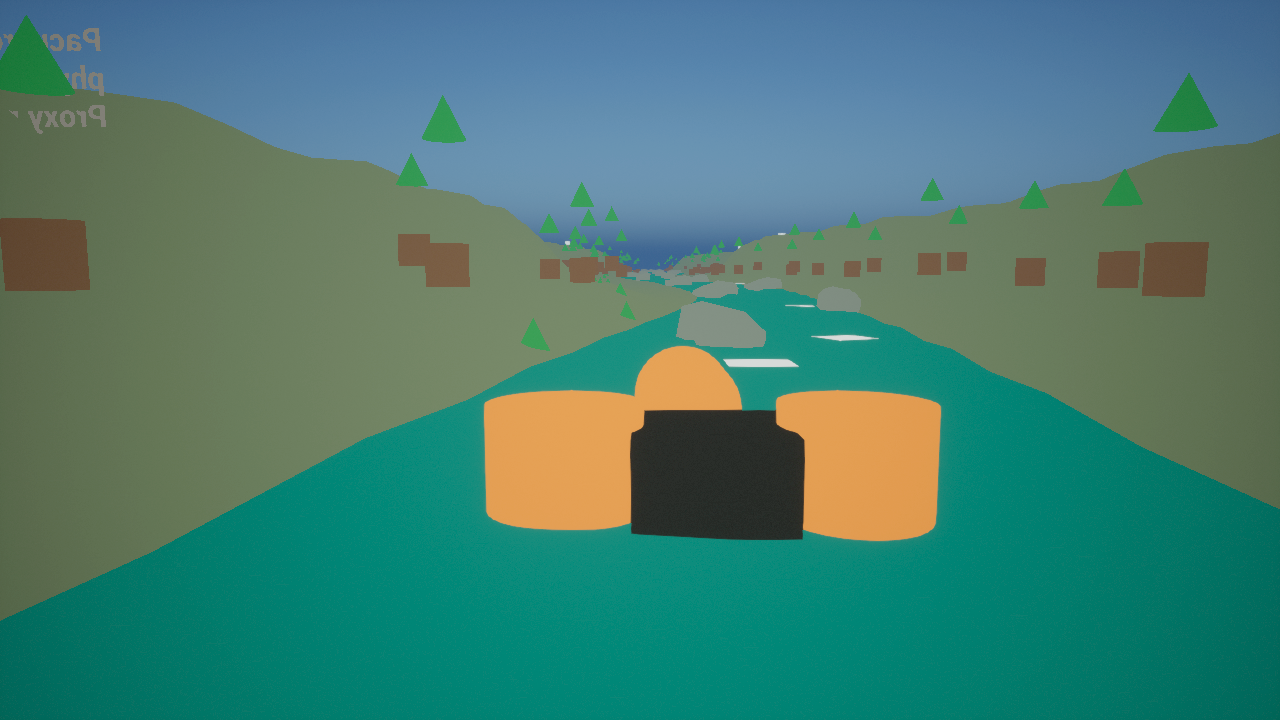
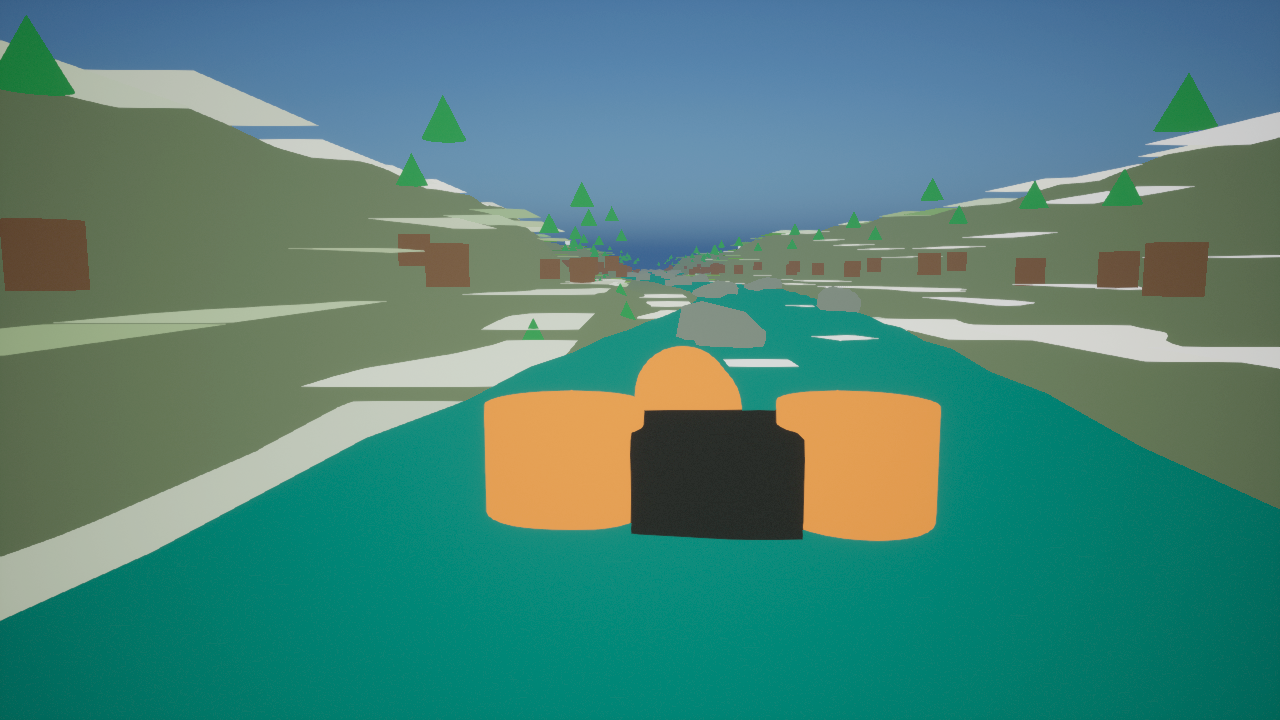
Add Pacuare source-derived preview slice

diff --git a/unreal/Plugins/RaftSim/Source/RaftSimEditor/Private/RaftSimEditorModule.cpp b/unreal/Plugins/RaftSim/Source/RaftSimEditor/Private/RaftSimEditorModule.cpp
@@ -11,7 +11,6 @@
 #include "Components/SkyLightComponent.h"
 #include "Components/StaticMeshComponent.h"
 #include "Components/SkyAtmosphereComponent.h"
-#include "Components/TextRenderComponent.h"
 #include "Editor.h"
 #include "Engine/DirectionalLight.h"
 #include "Engine/ExponentialHeightFog.h"
@@ -20,7 +19,6 @@
 #include "Engine/SkyLight.h"
 #include "Engine/StaticMesh.h"
 #include "Engine/StaticMeshActor.h"
-#include "Engine/TextRenderActor.h"
 #include "Engine/TextureRenderTarget2D.h"
 #include "EngineUtils.h"
 #include "FileHelpers.h"
@@ -236,6 +234,12 @@ TArray<FRaftSimEnvironmentPreviewSpec> GetEnvironmentPreviewSpecs()
     Pacuare.DisplayName = TEXT("Pacuare River Rainforest");
     Pacuare.MapPackagePath = TEXT("/Game/RaftSim/Maps/EnvironmentPreviews/L_PacuareRainforest_PhotorealPreview");
     Pacuare.SourceManifest = TEXT("physics/data/real_world/pacuare_river_costa_rica/source_manifest.json");
+    Pacuare.AerialDrapeImage =
+        TEXT("physics/data/real_world/pacuare_river_costa_rica/imagery/nasa_gibs_pacuare_truecolor_2025-04-02_512.png");
+    Pacuare.ElevationSample =
+        TEXT("physics/data/real_world/pacuare_river_costa_rica/terrain/copernicus_dem_glo30_N09_W084.tif; physics/data/real_world/pacuare_river_costa_rica/terrain/copernicus_dem_glo30_N10_W084.tif");
+    Pacuare.SourceDrapeDescription =
+        TEXT("official NASA GIBS MODIS/Terra true-color 512px sample, selected from five cloud-screened dates, sampled into visible rainforest terrain overlay tiles; Copernicus DEM GLO-30 public COG tiles recorded for follow-on Pacuare gorge heightfield conditioning; rocks, foliage, water, waterfalls, foam, raft, and lighting remain proxy layers");
     Pacuare.WaterColor = FLinearColor(0.03f, 0.24f, 0.19f);
     Pacuare.TerrainColor = FLinearColor(0.17f, 0.22f, 0.13f);
     Pacuare.RockColor = FLinearColor(0.20f, 0.24f, 0.20f);
@@ -873,7 +877,7 @@ void AddPreviewLightRig(UWorld* World, const FRaftSimEnvironmentPreviewSpec& Spe
     }
 }
 
-void AddPreviewCameraAndLabels(UWorld* World, const FRaftSimEnvironmentPreviewSpec& Spec)
+void AddPreviewCameraAndStart(UWorld* World, const FRaftSimEnvironmentPreviewSpec& Spec)
 {
     if (!World || !GEditor)
     {
@@ -900,26 +904,6 @@ void AddPreviewCameraAndLabels(UWorld* World, const FRaftSimEnvironmentPreviewSp
         PlayerStart->SetActorLabel(TEXT("RaftSim_GuideSeat_PlayerStart"));
     }
 
-    ATextRenderActor* Label = Cast<ATextRenderActor>(
-        GEditor->AddActor(World->GetCurrentLevel(), ATextRenderActor::StaticClass(), FTransform(FRotator(0.0f, 0.0f, 0.0f), FVector(-3600.0f, -1350.0f, 420.0f))));
-    if (Label && Label->GetTextRender())
-    {
-        Label->SetActorLabel(TEXT("RaftSim_SourceManifest_Label"));
-        const FString SourceLayerNote = Spec.SourceDrapeDescription.IsEmpty()
-            ? FString(TEXT("Proxy preview: replace with reviewed DEM, imagery, and assets."))
-            : FString::Printf(
-                  TEXT("Source preview layer: %s\nAerial: %s\nDEM sample: %s"),
-                  *Spec.SourceDrapeDescription,
-                  *Spec.AerialDrapeImage,
-                  *Spec.ElevationSample);
-        Label->GetTextRender()->SetText(FText::FromString(FString::Printf(
-            TEXT("%s\n%s\n%s"),
-            *Spec.DisplayName,
-            *Spec.SourceManifest,
-            *SourceLayerNote)));
-        Label->GetTextRender()->SetHorizontalAlignment(EHTA_Left);
-        Label->GetTextRender()->SetWorldSize(72.0f);
-    }
 }
 
 bool SavePreviewWorld(UWorld* World, const FString& PackagePath, FString& OutSummary)
@@ -1176,7 +1160,7 @@ bool BuildPreviewMapForSpec(const FRaftSimEnvironmentPreviewSpec& Spec, FString&
         }
     }
 
-    AddPreviewCameraAndLabels(World, Spec);
+    AddPreviewCameraAndStart(World, Spec);
     return SavePreviewWorld(World, Spec.MapPackagePath, OutSummary);
 }
 
@@ -2187,7 +2171,7 @@ bool FRaftSimEditorModule::CapturePhotorealEnvironmentPreviews(FString& OutSumma
         TEXT("%s\n")
         TEXT("  ]\n")
         TEXT("}\n"),
-        bAllCaptured ? TEXT("south_fork_and_colorado_source_draped_previews_and_pacuare_procedural_blockout_available; photoreal source_data_and_asset_replacement_required") : TEXT("one_or_more_captures_failed"),
+        bAllCaptured ? TEXT("south_fork_colorado_and_pacuare_source_draped_previews_available; photoreal source_data_and_asset_replacement_required") : TEXT("one_or_more_captures_failed"),
         *EntriesJson);
 
     const FString ManifestPath = FPaths::Combine(CaptureRoot, TEXT("environment_capture_manifest.json"));

diff --git a/docs/photoreal-river-environment-production-plan.md b/docs/photoreal-river-environment-production-plan.md
@@ -61,6 +61,13 @@ Treat this as a rain-fed tropical gorge environment until authoritative hydrolog
 - Aerial imagery: Copernicus Sentinel and Landsat for vegetation, river color, and cloud-aware seasonal review.
 - Review media: first-party field captures or explicit outfitter/guide permissions; public social links remain reference-only.
 
+Initial source slice:
+
+- `physics/data/real_world/pacuare_river_costa_rica/production_source_pull_manifest.json` records the first Pacuare source pull.
+- Copernicus DEM GLO-30 public COG tiles `N09_00_W084_00` and `N10_00_W084_00` now cover the draft WGS84 bounds. They are source terrain artifacts only; clipping, reprojection, hydrologic conditioning, and Unreal heightfield import remain open.
+- NASA GIBS MODIS/Terra true-color samples were pulled for five dates. The April 2, 2025 sample has the best visible rainforest texture and is used as the coarse Unreal preview drape; the other dates are retained as cloud-screening evidence.
+- OpenTopography SRTMGL1 was probed and returned an API-key requirement, so that path remains available only after key and terms review.
+
 ## Unreal Construction Plan
 
 1. Create source-controlled preview recipes for all three rivers from the manifest.
@@ -86,8 +93,9 @@ Treat this as a rain-fed tropical gorge environment until authoritative hydrolog
 - The first South Fork official source slice now exists at `physics/data/real_world/south_fork_american_chili_bar/production_source_pull_manifest.json`: historical USGS `11445500` daily discharge, TNM NHD product metadata, TNM DEM/NAIP zero-hit diagnostics, a small USGS 3DEP GeoTIFF sample, and a small USDA/APFO NAIP aerial sample.
 - The South Fork preview now uses the USDA/APFO NAIP sample as a source-derived visible terrain overlay in Unreal. This proves the imagery-to-editor path, but it is a small smoke-test raster rather than a complete orthomosaic or terrain material pass.
 - The first Colorado/Lees Ferry official source slice now exists at `physics/data/real_world/colorado_river_grand_canyon_rowing/production_source_pull_manifest.json`: USGS `09380000` and `09402500` daily discharge histories through July 4, 2026, a small USGS 3DEP GeoTIFF sample, and a small USDA/APFO NAIP aerial sample. The Colorado preview uses that NAIP sample as a source-derived visible canyon terrain overlay.
+- The first Pacuare public/global source slice now exists at `physics/data/real_world/pacuare_river_costa_rica/production_source_pull_manifest.json`: Copernicus DEM GLO-30 public COG tiles for the draft bounds, a NASA GIBS MODIS/Terra April 2, 2025 true-color preview sample selected from five cloud-screened dates, and an OpenTopography API-key gate probe. The Pacuare preview uses the NASA sample as a source-derived visible rainforest terrain overlay.
 - The existing default map path `/Game/RaftSim/Maps/L_RaftSimBoot` has no committed level asset yet.
-- Colorado and Pacuare still need real geospatial pulls, hydrology review, guide review, and rights-cleared field/reference media.
+- Colorado and Pacuare still need full-corridor geospatial processing, hydrology review, guide review, and rights-cleared field/reference media.
 - South Fork has the only solver corridor package, but its terrain, imagery, and field media are still representative placeholders rather than production pulls.
 - Production photoreal review is blocked on reviewed DEM/aerial imports plus rights-cleared or first-party river environment assets for terrain materials, wet rocks, foliage, water surface detail, foam, mist, spray, and lighting.
 
@@ -99,4 +107,5 @@ Treat this as a rain-fed tropical gorge environment until authoritative hydrolog
 - Colorado River: `/Game/RaftSim/Maps/EnvironmentPreviews/L_ColoradoGrandCanyon_PhotorealPreview`, capture `docs/environment-captures/photoreal_river_previews/colorado_river_guide_seat_downstream.png`.
 - Colorado source data: `physics/data/real_world/colorado_river_grand_canyon_rowing/production_source_pull_manifest.json` records the initial official pull; `imagery/usda_naip_lees_ferry_sample_512.png` is sampled into visible canyon terrain overlay tiles, and `terrain/usgs_3dep_lees_ferry_sample_256.tif` is recorded for the next canyon heightfield-conditioning pass.
 - Pacuare River: `/Game/RaftSim/Maps/EnvironmentPreviews/L_PacuareRainforest_PhotorealPreview`, capture `docs/environment-captures/photoreal_river_previews/pacuare_guide_seat_downstream.png`.
+- Pacuare source data: `physics/data/real_world/pacuare_river_costa_rica/production_source_pull_manifest.json` records the initial public/global pull; `imagery/nasa_gibs_pacuare_truecolor_2025-04-02_512.png` is sampled into visible rainforest terrain overlay tiles, and `terrain/copernicus_dem_glo30_N09_W084.tif` plus `terrain/copernicus_dem_glo30_N10_W084.tif` are recorded for the next gorge heightfield-conditioning pass.
 - These captures verify editor automation, camera placement, generated valley terrain meshes, curved river ribbons, foam/hydraulic cue strips, boulder bars, foliage proxies, and per-river light/fog variants. They must be replaced by source-derived or rights-cleared photoreal passes before the goal is complete.

diff --git a/TODO.md b/TODO.md
@@ -931,6 +931,7 @@ This milestone turns the three runnable river targets into complete, reviewable,
 - [x] Attach the first official South Fork production source slice: historical USGS 11445500 daily discharge, TNM NHD product metadata, TNM DEM/NAIP zero-hit diagnostics, a small USGS 3DEP GeoTIFF sample, and a small USDA/APFO NAIP aerial sample are recorded in `physics/data/real_world/south_fork_american_chili_bar/production_source_pull_manifest.json`.
 - [x] Drape the official South Fork USDA/APFO NAIP aerial sample into the generated Unreal terrain preview as a source-derived visible overlay layer, and record the paired USGS 3DEP sample in the capture/source manifests for follow-on heightfield conditioning. This improves provenance and visual grounding but is still not a production photoreal river environment.
 - [x] Attach the first official Colorado/Lees Ferry production source slice: USGS 09380000 and 09402500 daily discharge histories, a small USGS 3DEP GeoTIFF sample, and a small USDA/APFO NAIP aerial sample are recorded in `physics/data/real_world/colorado_river_grand_canyon_rowing/production_source_pull_manifest.json` and wired into the Unreal preview overlay path.
+- [x] Attach the first Pacuare production source slice: Copernicus DEM GLO-30 public tiles for the draft bounds, a NASA GIBS MODIS/Terra true-color cloud-screened preview sample, retained cloudy candidate samples, and an OpenTopography API-key gate probe are recorded in `physics/data/real_world/pacuare_river_costa_rica/production_source_pull_manifest.json` and wired into the Unreal preview overlay path.
 - [ ] Pull or attach reviewed production geospatial source data: DEM/lidar, hydrography, aerial/satellite imagery, water/vegetation masks, flow/gauge/rainfall history, protected-area/access context, and guide/media annotation references.
 - [ ] Replace proxy terrain, banks, rocks, foliage, water materials, foam/spray/mist, wetness, and lighting with source-derived or rights-cleared assets until screenshots read as lifelike without hiding hazards or rescue targets.
 - [ ] Add or license production-quality river environment asset packs/materials, or generate approved first-party procedural equivalents, for canyon walls, riverbeds, wet boulders, shore vegetation, tropical canopy, foam/spray/mist, raft foreground, and river-specific atmospheric lighting.

diff --git a/docs/unreal-photoreal-open-world-stack.md b/docs/unreal-photoreal-open-world-stack.md
@@ -25,6 +25,6 @@ The first vertical-slice environment recipe is `unreal/Content/RaftSim/Rendering
 
 The three-river environment source and capture plan is `unreal/Content/RaftSim/Rendering/photoreal_river_environment_sources.json`. It records the source stack for South Fork American, Colorado River, and Pacuare: maps, terrain, hydrography, flow evidence, aerial/satellite imagery, link-only social/reference media policy, procedural generation layers, target Unreal map packages, and required guide-seat downstream captures.
 
-The first generated preview maps are now available under `/Game/RaftSim/Maps/EnvironmentPreviews/`, and rendered procedural blockout captures are written to `docs/environment-captures/photoreal_river_previews/` by the `RaftSim.CreatePhotorealEnvironmentPreviewMaps` and `RaftSim.CapturePhotorealEnvironmentPreviews` editor automation. These are source-aware development previews with generated valley terrain, curved river ribbons, foam/hydraulic cue strips, boulder bars, foliage proxies, and per-river light/fog variants; final photoreal approval still requires reviewed DEM/aerial inputs and rights-cleared or first-party assets.
+The first generated preview maps are now available under `/Game/RaftSim/Maps/EnvironmentPreviews/`, and rendered guide-seat captures are written to `docs/environment-captures/photoreal_river_previews/` by the `RaftSim.CreatePhotorealEnvironmentPreviewMaps` and `RaftSim.CapturePhotorealEnvironmentPreviews` editor automation. South Fork, Colorado, and Pacuare now have source-draped preview overlays, with generated valley terrain, curved river ribbons, foam/hydraulic cue strips, boulder bars, foliage proxies, and per-river light/fog variants; final photoreal approval still requires full reviewed DEM/aerial imports and rights-cleared or first-party assets.
 
 The recipe requires guide-seat review captures, desktop/VR/debug quality budgets, source and rights manifests, and replay alignment between rendered water features and solver/runtime telemetry before the environment can count as milestone-complete.

diff --git a/docs/real-world-river-content-plan.md b/docs/real-world-river-content-plan.md
@@ -393,7 +393,7 @@ Each real-world river section must pass:
 ### Milestone F: Unreal Photoreal Corridor
 
 - Use latest stable UE5 rendering stack, Nanite foliage, Lumen, Virtual Shadow Maps, World Partition, PCG, Niagara, Substrate/material layering, and water visualization.
-- Use `RaftSim.CreatePhotorealEnvironmentPreviewMaps` and `RaftSim.CapturePhotorealEnvironmentPreviews` to generate and capture current procedural blockout evidence for South Fork American, Colorado River, and Pacuare under `/Game/RaftSim/Maps/EnvironmentPreviews/` and `docs/environment-captures/photoreal_river_previews/`.
+- Use `RaftSim.CreatePhotorealEnvironmentPreviewMaps` and `RaftSim.CapturePhotorealEnvironmentPreviews` to generate and capture current source-draped preview evidence for South Fork American, Colorado River, and Pacuare under `/Game/RaftSim/Maps/EnvironmentPreviews/` and `docs/environment-captures/photoreal_river_previews/`; these previews remain non-photoreal until full-corridor terrain, imagery, assets, and guide-reviewed annotations are promoted.
 - Treat the current generated valley terrain, river ribbons, foam/hydraulic cues, boulder bars, foliage proxies, and light/fog variants as review blockouts only. Promotion to photoreal production requires reviewed DEM/aerial imports and rights-cleared or first-party terrain, rock, foliage, water-detail, mist/spray, and raft assets.
 - Validate performance against desktop/VR targets.
 
